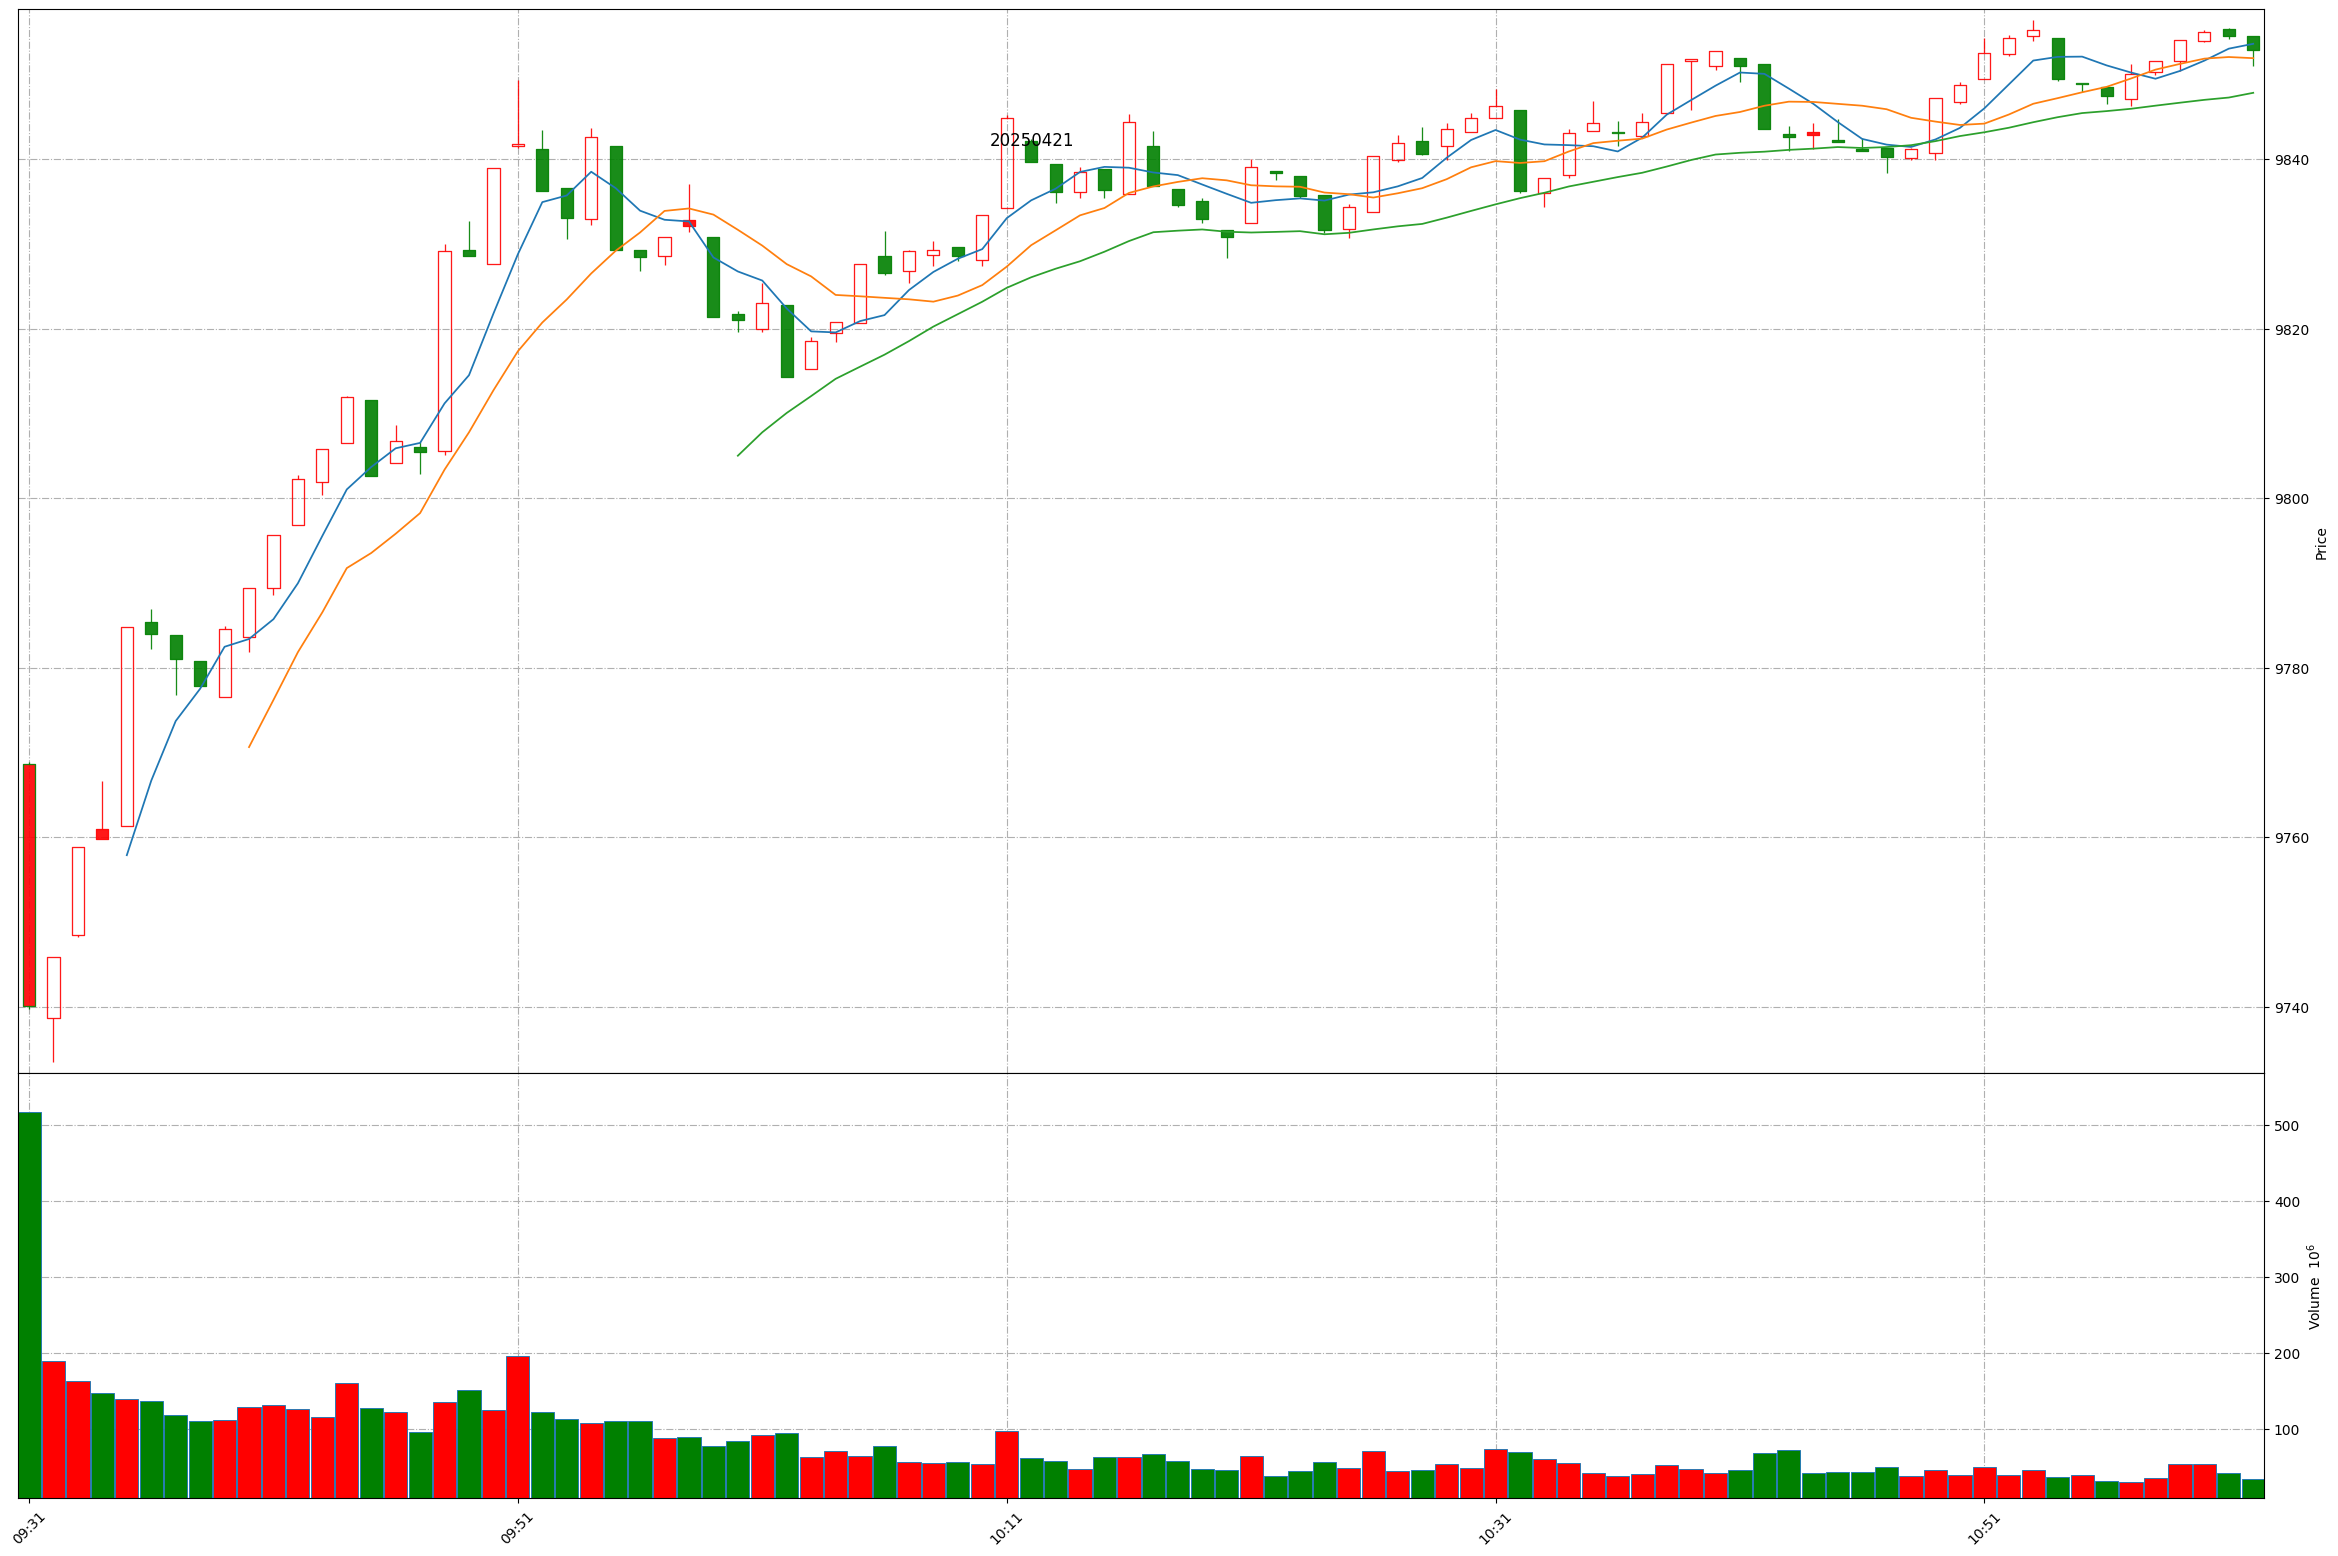
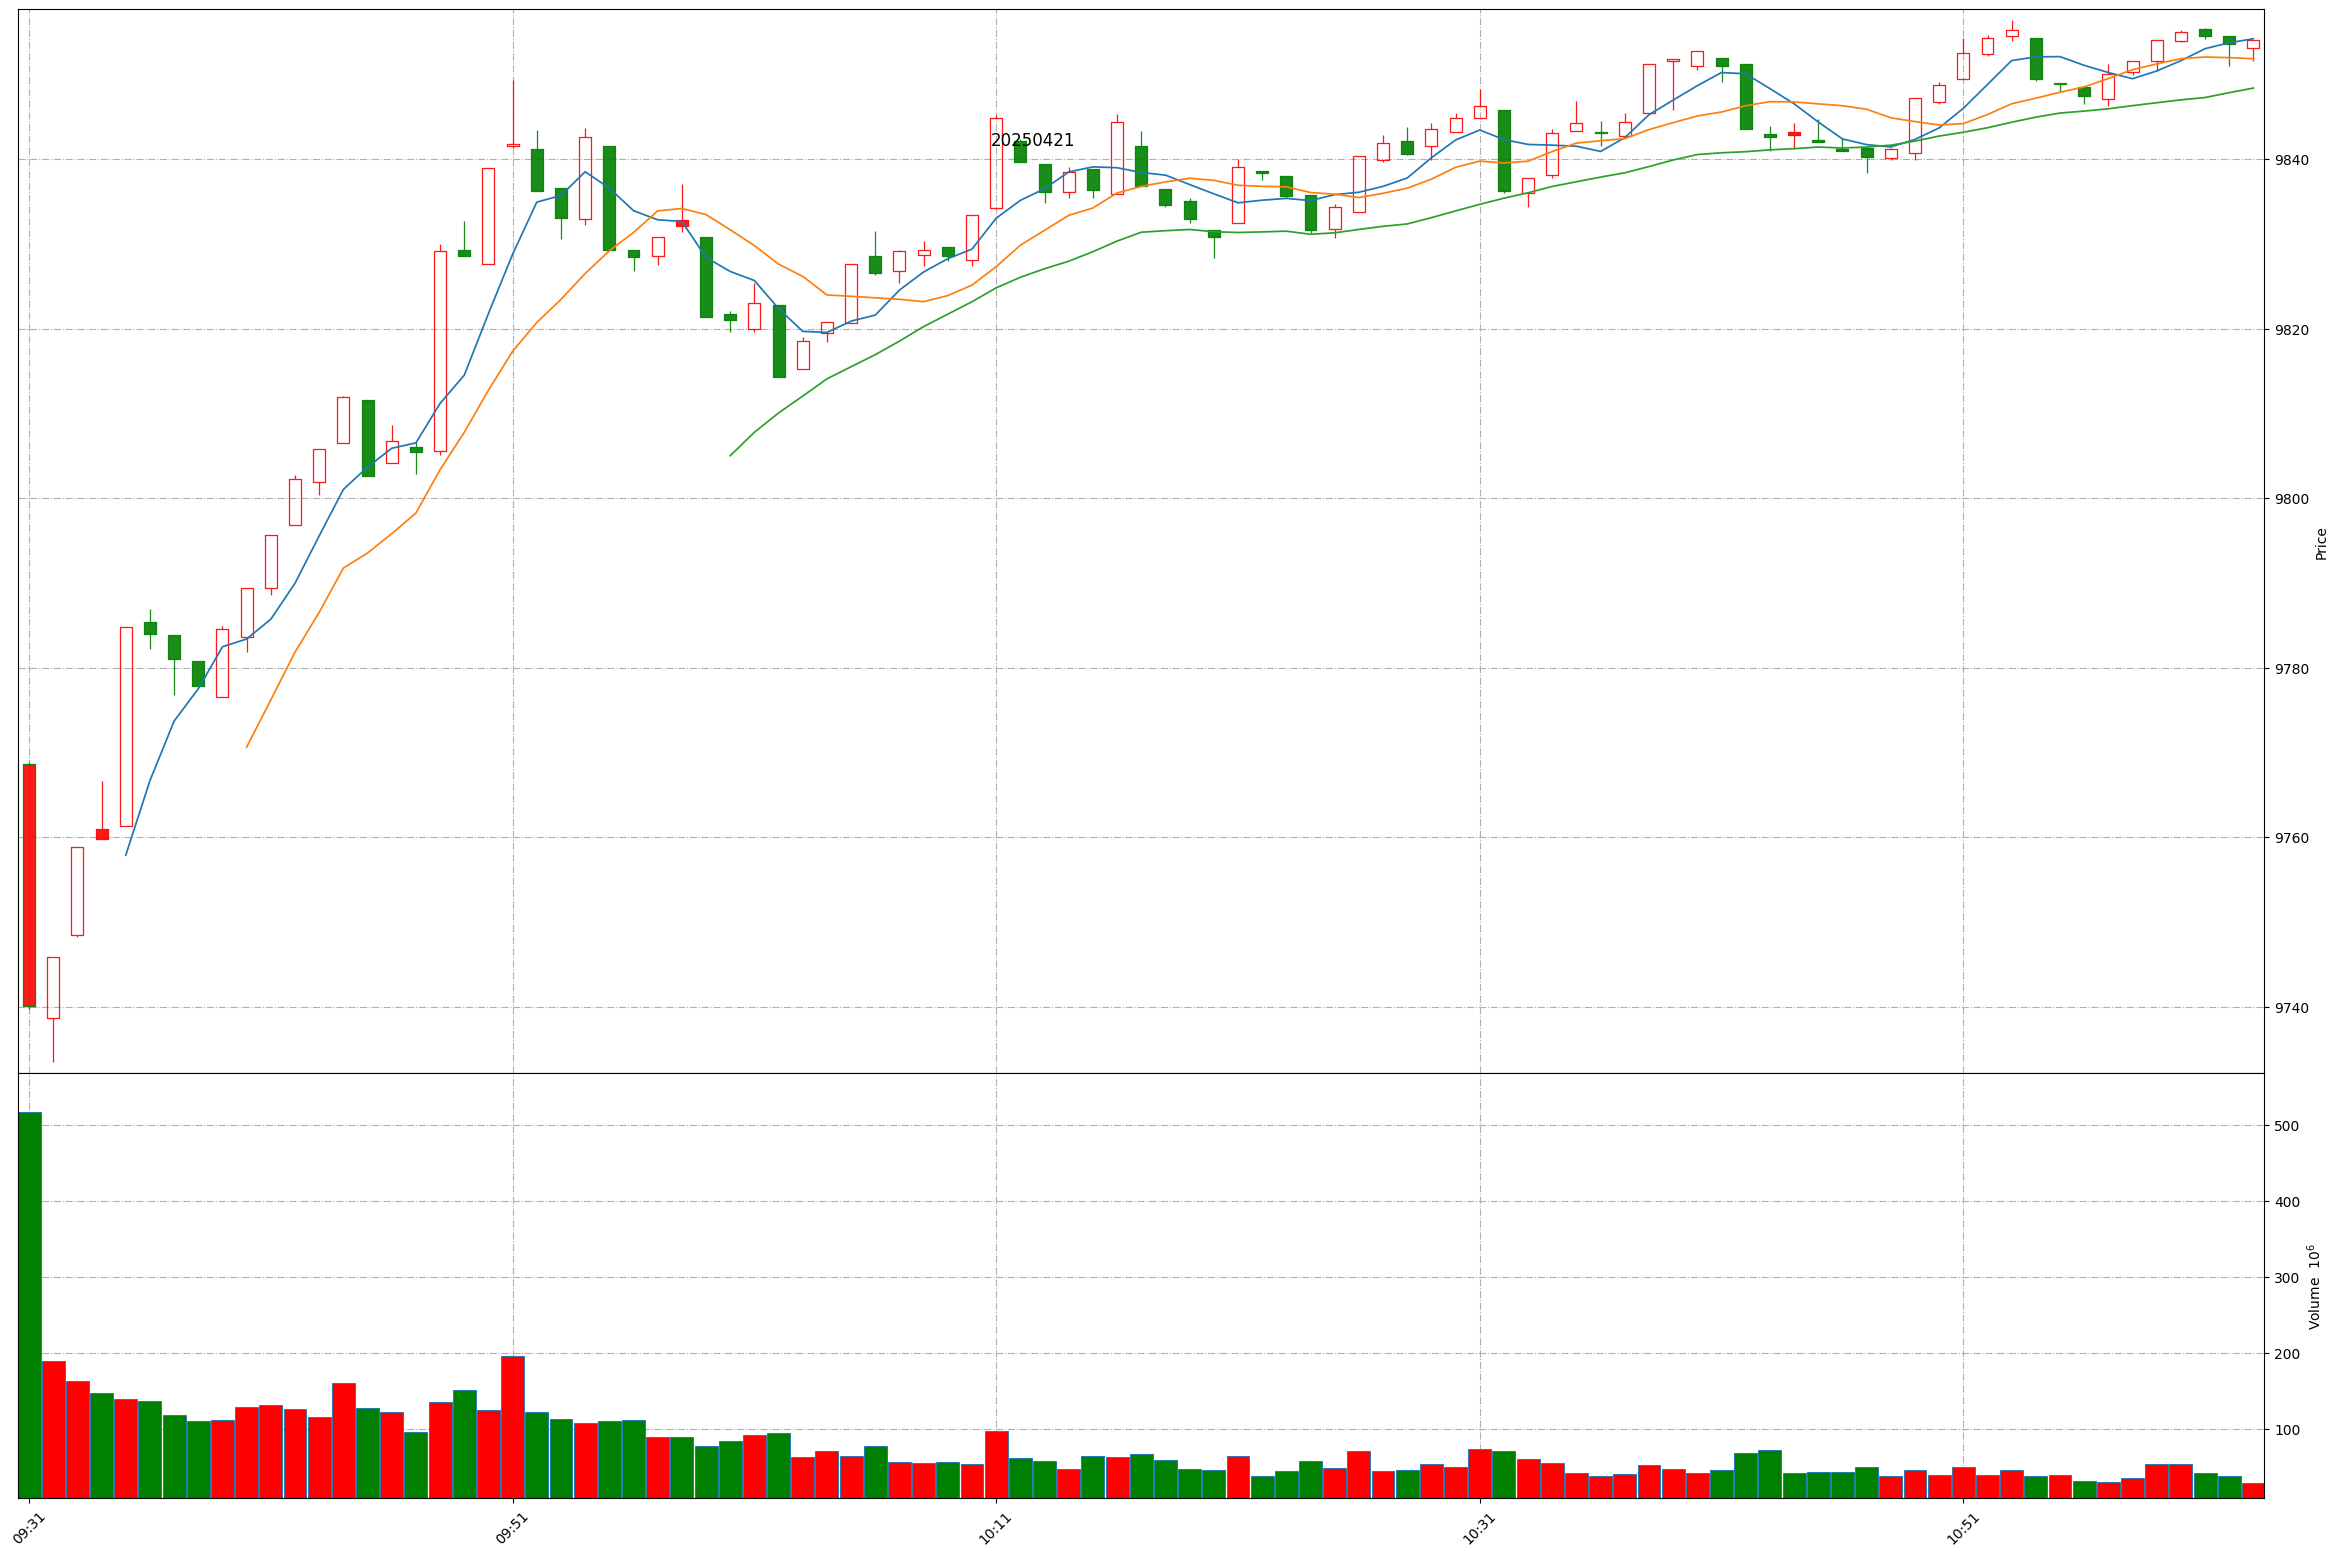
Github action update at 2025-04-21 11:02:56.

Changed region(s): [[0.0312, 0.0, 0.9679, 0.5244], [0.0624, 0.8946, 0.9679, 0.9871]]

diff --git a/README.md b/README.md
@@ -1,11 +1,11 @@
 
 # Daily-A-share-market-quotes 每日 A 股指数（5min 更新）- 20250421
 
-### 上证指数 20250421 11:1
+### 上证指数 20250421 11:2
 ![](./fig/2025/4/20250421-sh000001.png)
 
-### 深证成指 20250421 11:1
+### 深证成指 20250421 11:2
 ![](./fig/2025/4/20250421-sz399001.png)
 
-### 北证50 20250421 11:1
+### 北证50 20250421 11:2
 ![](./fig/2025/4/20250421-bj899050.png)
